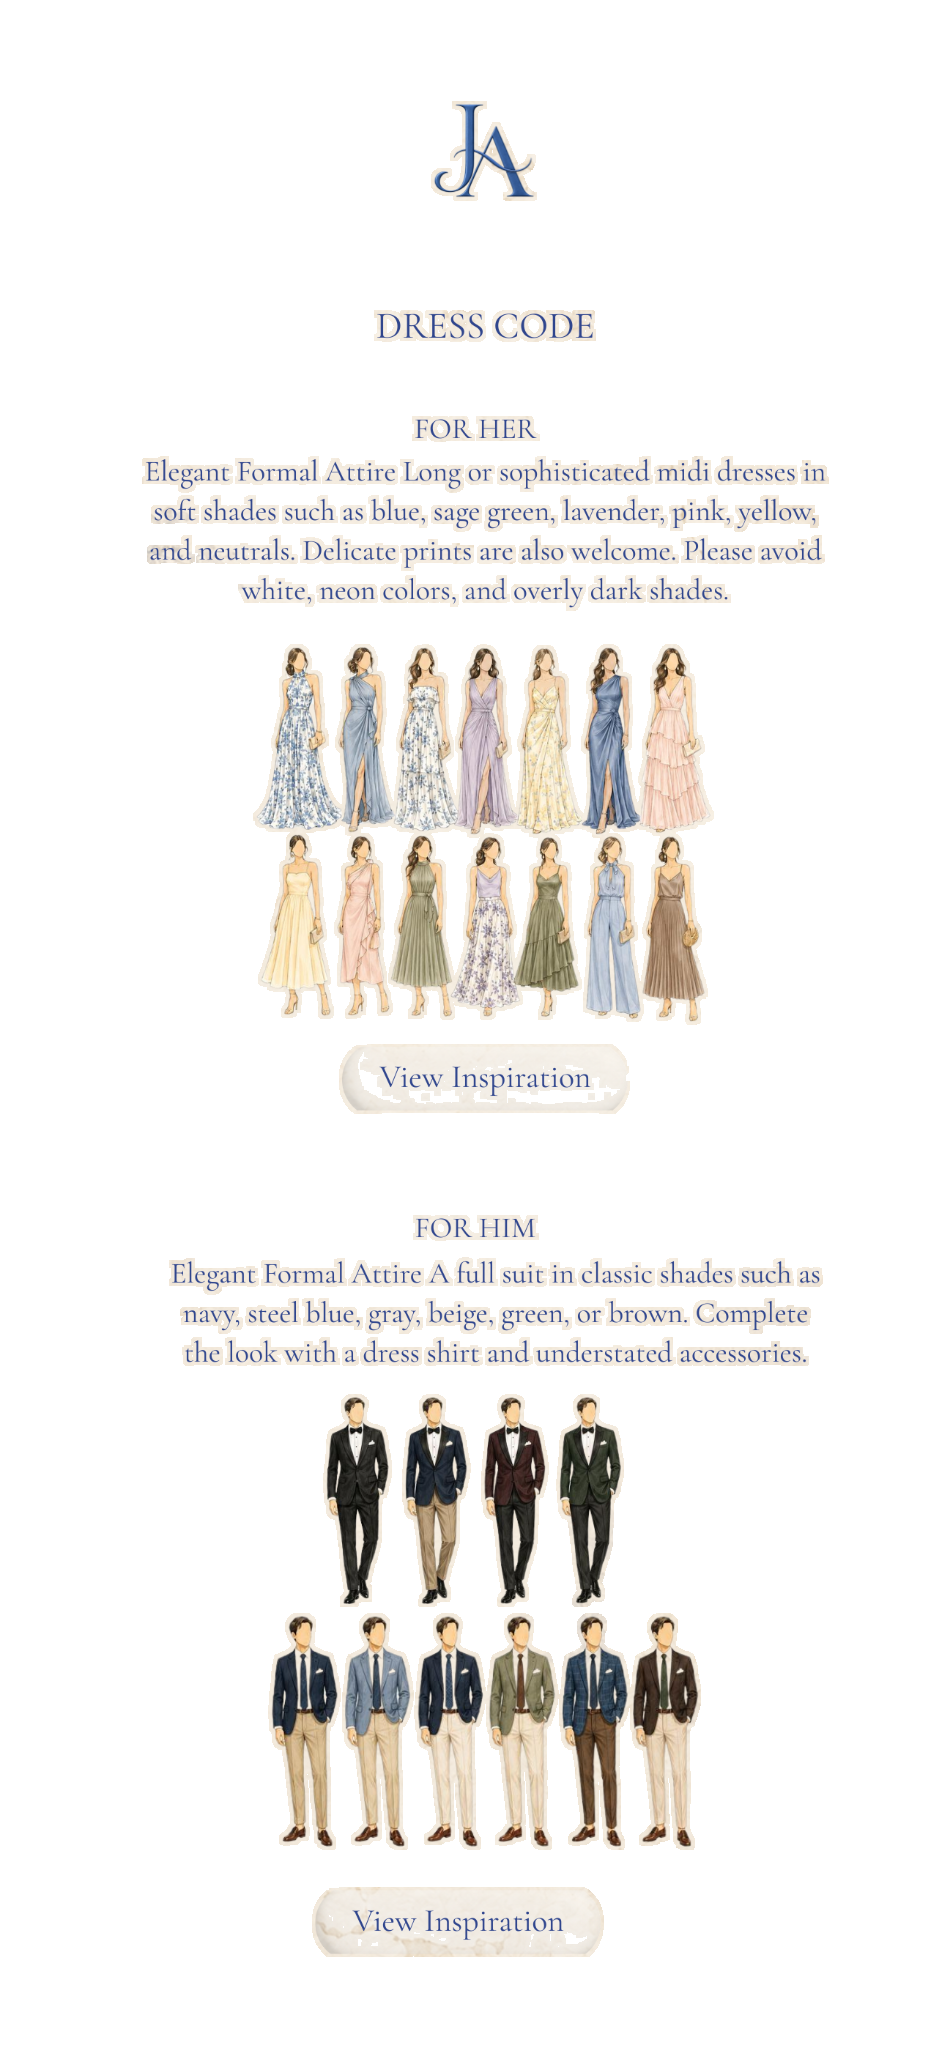
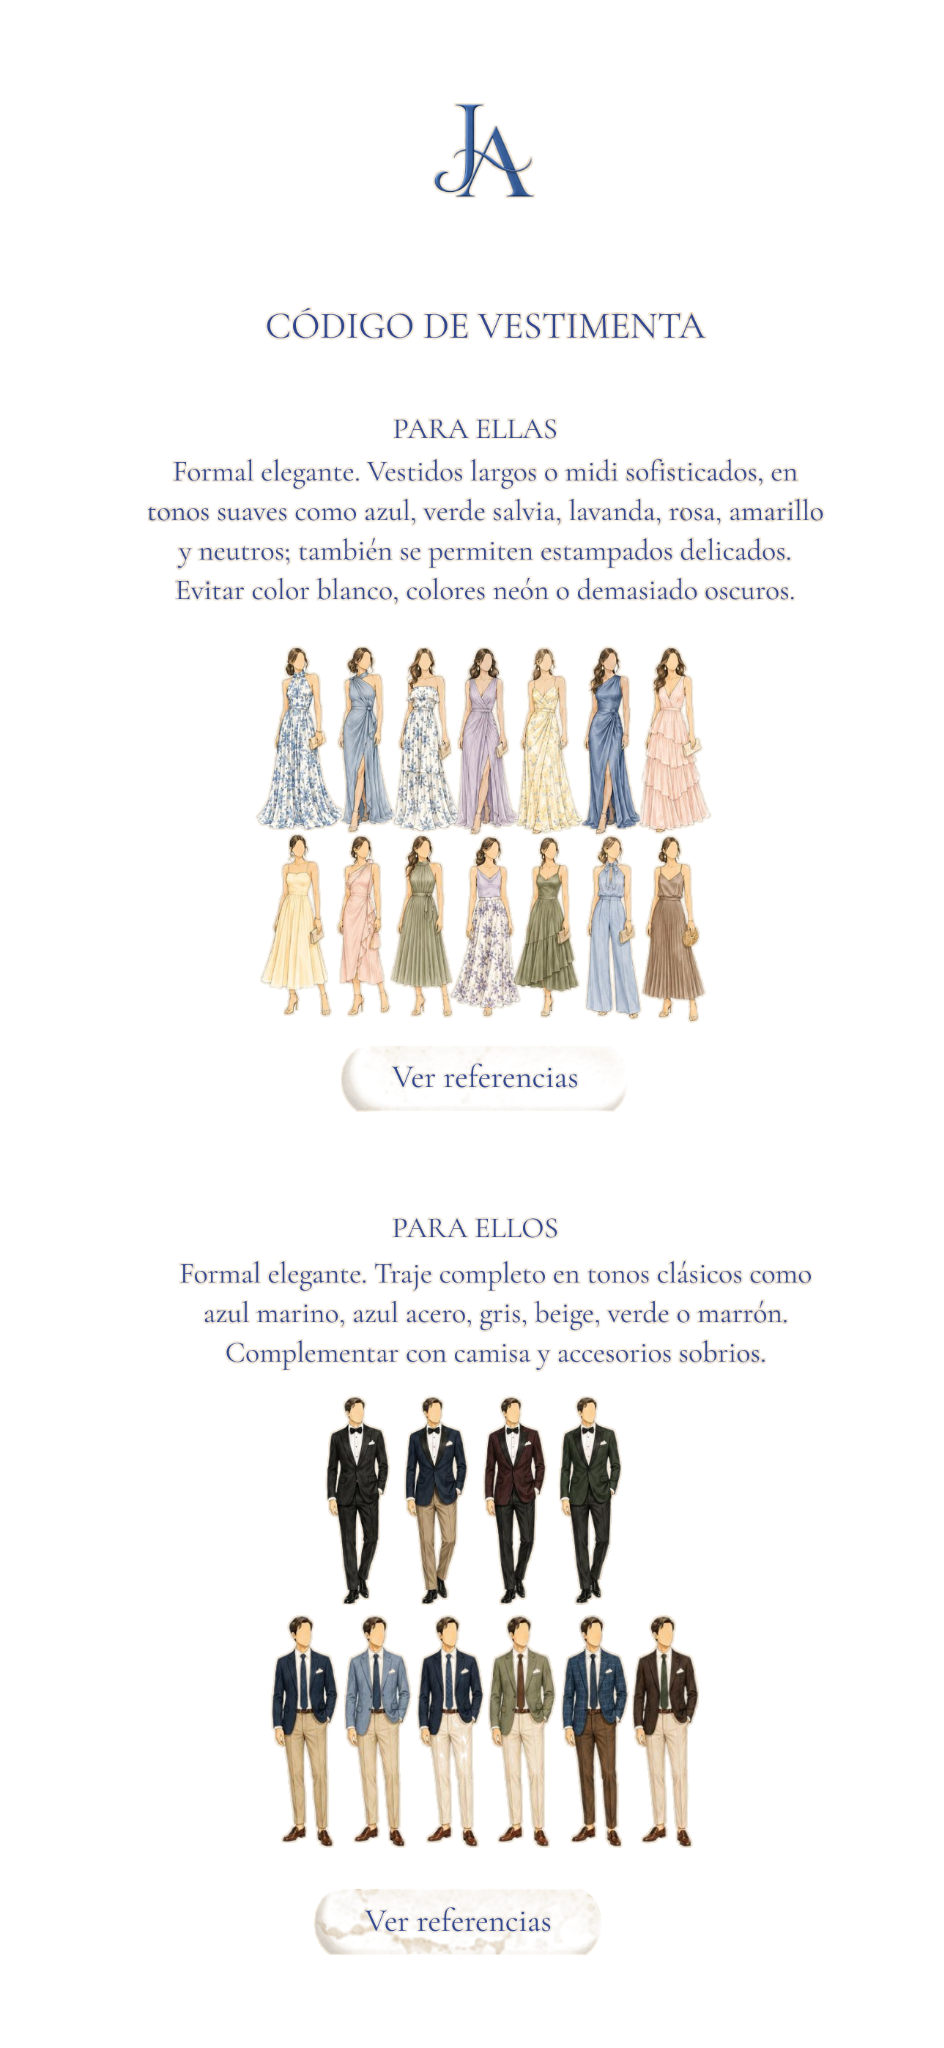
Add files via upload

diff --git a/index.html b/index.html
@@ -1,15 +1,10 @@
 <!doctype html>
-<html lang="en">
+<html lang="es">
 <head>
 <meta charset="utf-8">
 <meta name="viewport" content="width=device-width,initial-scale=1,viewport-fit=cover">
 <meta name="theme-color" content="#f7f1e7">
 <title>Jeanny & Ariel · 15.11.2026</title>
-<meta name="description" content="Jeanny & Ariel · Wedding Invitation · November 15, 2026">
-<meta property="og:type" content="website">
-<meta property="og:title" content="Jeanny & Ariel · 15.11.2026">
-<meta property="og:description" content="Wedding Invitation · November 15, 2026">
-<meta property="og:url" content="https://portiaeventos.github.io/jeanny-ariel-wedding-invitation/">
 <style>
 :root{--max:944px}
 *{box-sizing:border-box}
@@ -75,11 +70,14 @@ body.locked{overflow:hidden}
 .p5-amazon{clip-path:inset(47% 15% 36% 15%)}
 .p5-adults{clip-path:inset(61% 15% 23% 15%)}
 
-/* V24 effect from page 3 onward: one soft reveal for the complete text/art overlay.
-   V32 clean backgrounds and full-page dimensions remain unchanged, so nothing is clipped. */
-.v24-reveal{position:absolute;inset:0;z-index:5;pointer-events:none;opacity:.18;transform:translateY(18px) scale(.992);filter:blur(1.5px);transition:opacity 1.05s ease,transform 1.2s cubic-bezier(.2,.7,.25,1),filter .8s ease;will-change:opacity,transform,filter}
-.v24-reveal img{position:absolute;inset:0;width:100%;height:100%;object-fit:cover}
-.v24-reveal.show{opacity:1;transform:translateY(0) scale(1);filter:blur(0)}
+
+/* V24 effect from page 3 onward: whole page artwork enters softly as one unit. */
+.v24-reveal .bg,.v24-reveal .v24-art{opacity:1;transform:none}
+.v24-reveal .v24-art{position:absolute;inset:0;z-index:5;width:100%;height:100%;object-fit:cover;pointer-events:none}
+.v24-reveal.fx .v24-art{opacity:.18;transform:translateY(18px) scale(.992);filter:blur(1.5px);transition:opacity 1.05s ease,transform 1.2s cubic-bezier(.2,.7,.25,1),filter .8s ease}
+.v24-reveal.fx.seen .v24-art{opacity:1;transform:translateY(0) scale(1);filter:blur(0)}
+.v24-reveal .layer{display:none!important}
+@media (prefers-reduced-motion:reduce){.v24-reveal.fx .v24-art{opacity:1;transform:none;filter:none;transition:none}}
 
 /* clickable areas */
 .hotspot{position:absolute;z-index:30;display:block;border:0;background:transparent;border-radius:999px;cursor:pointer;touch-action:manipulation;-webkit-tap-highlight-color:transparent}
@@ -124,7 +122,7 @@ body.locked{overflow:hidden}
 <audio id="music" preload="auto" loop playsinline webkit-playsinline>
   <source src="assets/musica.mp3" type="audio/mpeg">
 </audio>
-<button class="audio-toggle" id="audioToggle" aria-label="Mute music">♪</button>
+<button class="audio-toggle" id="audioToggle" aria-label="Silenciar música">♪</button>
 
 <div class="cover" id="cover">
   <div class="cover-stage">
@@ -134,7 +132,7 @@ body.locked{overflow:hidden}
     </div>
     <div class="door-half door-left"><img src="assets/01-portada-completa.png" alt=""></div>
     <div class="door-half door-right"><img src="assets/01-portada-completa.png" alt=""></div>
-    <button class="hotspot" id="openBtn" aria-label="Tap to open"></button>
+    <button class="hotspot" id="openBtn" aria-label="Toca para abrir"></button>
   </div>
 </div>
 
@@ -146,28 +144,28 @@ body.locked{overflow:hidden}
     <div class="layer p2-names fade-up"><img src="assets/02-texto.png" alt=""></div>
     <div class="layer p2-date fade-in"><img src="assets/02-texto.png" alt=""></div>
     <div class="layer p2-scroll fade-up"><img src="assets/02-texto.png" alt=""></div>
-    <button class="hotspot" id="scroll-details" aria-label="Scroll to discover"></button>
+    <button class="hotspot" id="scroll-details" aria-label="Desliza para descubrir"></button>
   </section>
 
-  <section class="page" id="p3">
+  <section class="page v24-reveal" id="p3">
     <img class="bg" src="assets/03-fondo.png" alt="">
-    <div class="v24-reveal"><img src="assets/03-texto.png" alt=""></div>
-    <a class="hotspot" id="location" href="https://maps.app.goo.gl/bXNYkKEkYui6yCsP8?g_st=ic" target="_blank" rel="noopener noreferrer" aria-label="View Location"></a>
-    <button class="hotspot" id="scroll-dress" aria-label="Scroll to discover the details"></button>
+    <img class="v24-art" src="assets/03-texto.png" alt="">
+    <a class="hotspot" id="location" href="https://maps.app.goo.gl/bXNYkKEkYui6yCsP8?g_st=ic" target="_blank" rel="noopener noreferrer" aria-label="Ver ubicación"></a>
+    <button class="hotspot" id="scroll-dress" aria-label="Desliza para descubrir los detalles"></button>
   </section>
 
-  <section class="page" id="p4">
+  <section class="page v24-reveal" id="p4">
     <img class="bg" src="assets/04-fondo.png" alt="">
-    <div class="v24-reveal"><img src="assets/04-texto.png" alt=""></div>
-    <a class="hotspot" id="dress-women" href="https://www.pinterest.com/turtle_uv94/code-dress-girls/?invite_code=2acb87ba884a4c9c999840964b3e6c9f&sender=549931941906887975" target="_blank" rel="noopener noreferrer" aria-label="View inspiration for her"></a>
-    <a class="hotspot" id="dress-men" href="https://www.pinterest.com/turtle_uv94/code-dress-boys/?invite_code=ddfad047927e46b4bc0679652ee8c017&sender=549931941906887975" target="_blank" rel="noopener noreferrer" aria-label="View inspiration for him"></a>
+    <img class="v24-art" src="assets/04-texto.png" alt="">
+    <a class="hotspot" id="dress-women" href="https://www.pinterest.com/turtle_uv94/code-dress-girls/?invite_code=2acb87ba884a4c9c999840964b3e6c9f&sender=549931941906887975" target="_blank" rel="noopener noreferrer"></a>
+    <a class="hotspot" id="dress-men" href="https://www.pinterest.com/turtle_uv94/code-dress-boys/?invite_code=ddfad047927e46b4bc0679652ee8c017&sender=549931941906887975" target="_blank" rel="noopener noreferrer"></a>
   </section>
 
-  <section class="page" id="p5">
+  <section class="page v24-reveal" id="p5">
     <img class="bg" src="assets/05-fondo.png" alt="">
-    <div class="v24-reveal"><img src="assets/05-texto.png" alt=""></div>
-    <a class="hotspot" id="casa-cuesta" href="https://listaderegalos.casacuesta.com/Event/Jeanny-Ariel?utm_source=share" target="_blank" rel="noopener noreferrer" aria-label="View Casa Cuesta registry"></a>
-    <a class="hotspot" id="amazon" href="https://www.amazon.com/wedding/guest-view/SKL6AKIKFPXG" target="_blank" rel="noopener noreferrer" aria-label="View Amazon registry"></a>
+    <img class="v24-art" src="assets/05-texto.png" alt="">
+    <a class="hotspot" id="casa-cuesta" href="https://listaderegalos.casacuesta.com/Event/Jeanny-Ariel?utm_source=share" target="_blank" rel="noopener noreferrer"></a>
+    <a class="hotspot" id="amazon" href="https://www.amazon.com/wedding/guest-view/SKL6AKIKFPXG" target="_blank" rel="noopener noreferrer"></a>
   </section>
 
 </main>
@@ -241,30 +239,24 @@ audioToggle.addEventListener('pointerup', ()=>{
 document.getElementById('scroll-details').addEventListener('click',()=>document.getElementById('p3').scrollIntoView({behavior:'smooth'}));
 document.getElementById('scroll-dress').addEventListener('click',()=>document.getElementById('p4').scrollIntoView({behavior:'smooth'}));
 
-/* V24 reveal behavior from page 3 onward */
-const sections = [...document.querySelectorAll('#p3,#p4,#p5')];
-function showSection(section){
-  if(section.dataset.shown) return;
-  section.dataset.shown='1';
-  const overlay=section.querySelector('.v24-reveal');
-  if(overlay) overlay.classList.add('show');
-}
-
+/* V24 effect from page 3 onward */
+const revealPages=[...document.querySelectorAll('.v24-reveal')];
+revealPages.forEach(x=>x.classList.add('fx'));
 if('IntersectionObserver' in window){
-  const io = new IntersectionObserver(entries=>{
-    entries.forEach(entry=>{
-      if(entry.isIntersecting){ showSection(entry.target); io.unobserve(entry.target); }
-    });
-  }, {threshold:0.16, rootMargin:'0px 0px -8% 0px'});
-  sections.forEach(s=>io.observe(s));
+  const io=new IntersectionObserver(entries=>entries.forEach(entry=>{
+    if(entry.isIntersecting){entry.target.classList.add('seen');io.unobserve(entry.target)}
+  }),{threshold:.16,rootMargin:'0px 0px -8% 0px'});
+  revealPages.forEach(x=>io.observe(x));
 }else{
-  const fallback=()=>sections.forEach(s=>{
-    const r=s.getBoundingClientRect();
-    if(r.top<innerHeight*.92 && r.bottom>0) showSection(s);
-  });
-  addEventListener('scroll',fallback,{passive:true});
-  fallback();
+  revealPages.forEach(x=>x.classList.add('seen'));
 }
+/* Safety fallback: never leave a page hidden if observer fails. */
+setTimeout(()=>{
+  document.querySelectorAll('.v24-reveal.fx:not(.seen)').forEach(x=>{
+    const r=x.getBoundingClientRect();
+    if(r.top<innerHeight*.92)x.classList.add('seen');
+  });
+},4200);
 </script>
 </body>
 </html>
